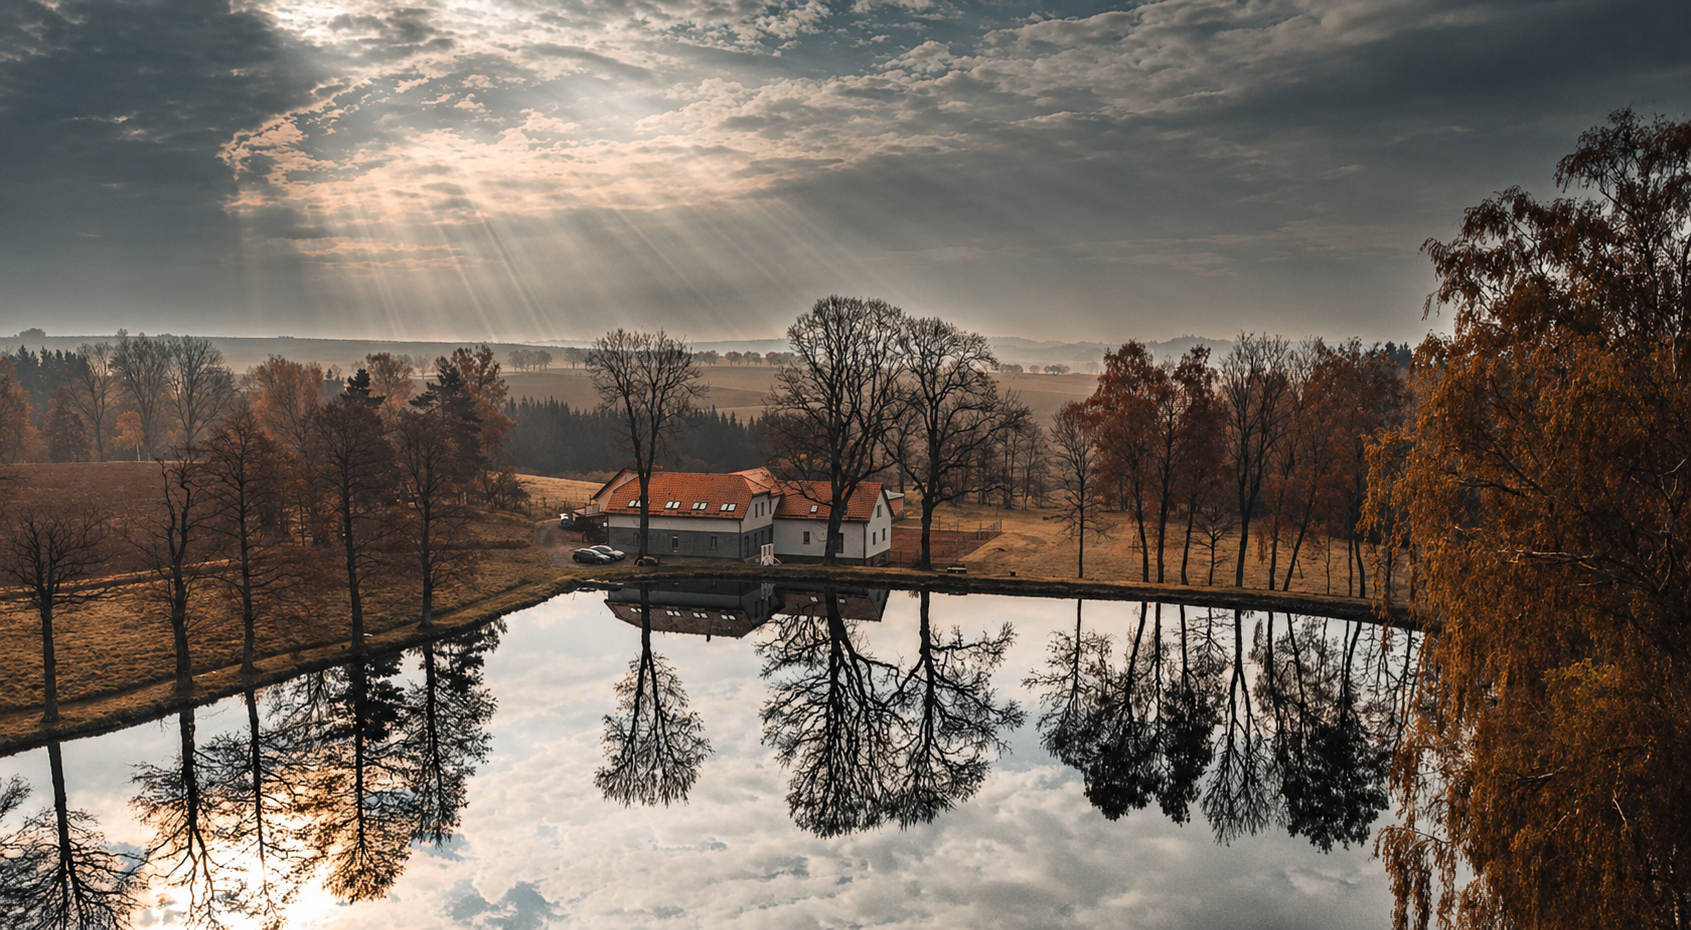
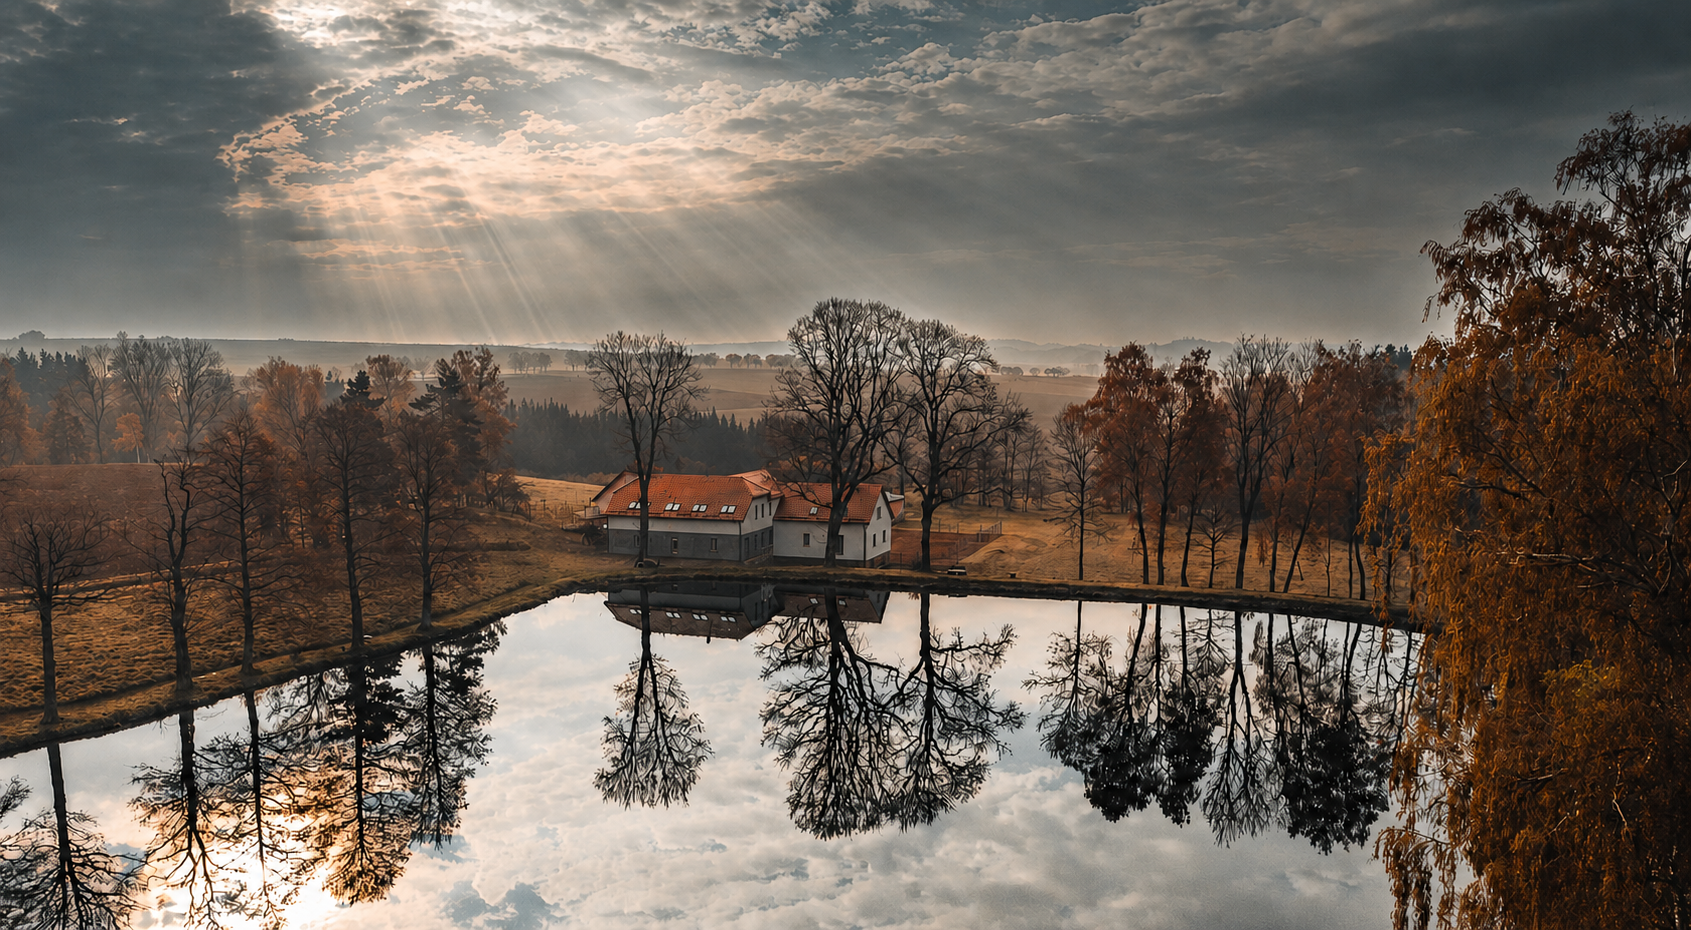
update

diff --git a/style.css b/style.css
@@ -56,7 +56,7 @@ body {
   background: var(--color-cream);
 }
 
-h1, h2 {
+h1, h2, h3 {
   font-family: var(--font-heading);
   font-weight: 400;
   line-height: 1.15;
@@ -569,27 +569,6 @@ h2.chapter-label::after {
   display: block;
 }
 
-/* Jemný tmavý nádech dole kvůli čitelnosti štítku kapitoly */
-.predel::after {
-  content: "";
-  position: absolute;
-  inset: 0;
-  background: linear-gradient(180deg,
-              rgba(46, 38, 32, 0) 70%,
-              rgba(46, 38, 32, .35) 100%);
-}
-
-.predel-label {
-  position: absolute;
-  left: var(--space-m);
-  bottom: var(--space-s);
-  z-index: 1;
-  margin: 0;
-  color: var(--color-on-caramel);
-  font-size: 13px;
-  letter-spacing: .22em; /* Popisek L */
-  text-transform: uppercase;
-}
 
 /* --------------------------------------------------------------------------
    12. Kapitola Místo — sticky foto vlevo, obsah vpravo (desktop)
@@ -611,6 +590,51 @@ h2.chapter-label::after {
   width: 100%;
   height: auto;
   display: block;
+}
+
+/* Rozklikávací galerie místa — stejný princip jako otázky (details) */
+.galerie summary {
+  cursor: pointer;
+  list-style: none; /* schová výchozí šipku */
+}
+
+.galerie summary::-webkit-details-marker {
+  display: none;
+}
+
+.galerie-hint {
+  display: flex;
+  justify-content: space-between;
+  align-items: center;
+  padding: 10px 2px;
+  font-size: 12px;
+  font-weight: 400;
+  letter-spacing: .18em;
+  text-transform: uppercase;
+  color: var(--color-caramel-dark);
+  border-bottom: 1px solid var(--color-sand);
+}
+
+.galerie-plus {
+  font-size: 20px;
+  color: var(--color-caramel);
+  transition: transform .2s;
+}
+
+.galerie[open] .galerie-plus {
+  transform: rotate(45deg); /* z + se stane × */
+}
+
+.galerie-grid {
+  display: grid;
+  grid-template-columns: 1fr 1fr;
+  gap: 8px;
+  margin-top: var(--space-s);
+}
+
+.galerie-grid img {
+  aspect-ratio: 1 / 1; /* jednotné čtverce bez ohledu na formát fotek */
+  object-fit: cover;
 }
 
 .misto-title {

diff --git a/index.html b/index.html
@@ -81,16 +81,27 @@
 
     <div class="predel">
       <img src="images/misto-siroka.png" alt="Jitkovský mlýn u rybníka z výšky" loading="lazy">
-      <p class="predel-label">Místo</p>
     </div>
 
     <section id="misto" class="band">
       <div class="chapter-misto">
       <div class="misto-media">
-        <img src="images/misto-detail.png" alt="Ovečky na pastvině u mlýna" loading="lazy">
+        <details class="galerie">
+          <summary>
+            <img src="images/misto-detail.png" alt="Ovečky na pastvině u mlýna" loading="lazy">
+            <span class="galerie-hint">Více fotek místa <span class="galerie-plus" aria-hidden="true">+</span></span>
+          </summary>
+          <div class="galerie-grid">
+            <img src="images/misto-1.jpg" alt="Jitkovský mlýn — fotografie místa" loading="lazy">
+            <img src="images/misto-2.jpg" alt="Jitkovský mlýn — fotografie místa" loading="lazy">
+            <img src="images/misto-3.jpg" alt="Jitkovský mlýn — fotografie místa" loading="lazy">
+            <img src="images/misto-4.jpg" alt="Jitkovský mlýn — fotografie místa" loading="lazy">
+          </div>
+        </details>
       </div>
       <div class="misto-body">  
-        <h2 class="misto-title">Jitkovský mlýn</h2>
+        <h2 class="chapter-label">Místo</h2>
+        <h3 class="misto-title">Jitkovský mlýn</h3>
         <p class="misto-atmo">Starý mlýn u rybníka kousek za Chotěboří — louky, stromy a klid Vysočiny. Obřad bude venku, hostina uvnitř. Všechno na jednom místě.</p>
         <ul class="misto-list">
           <li>